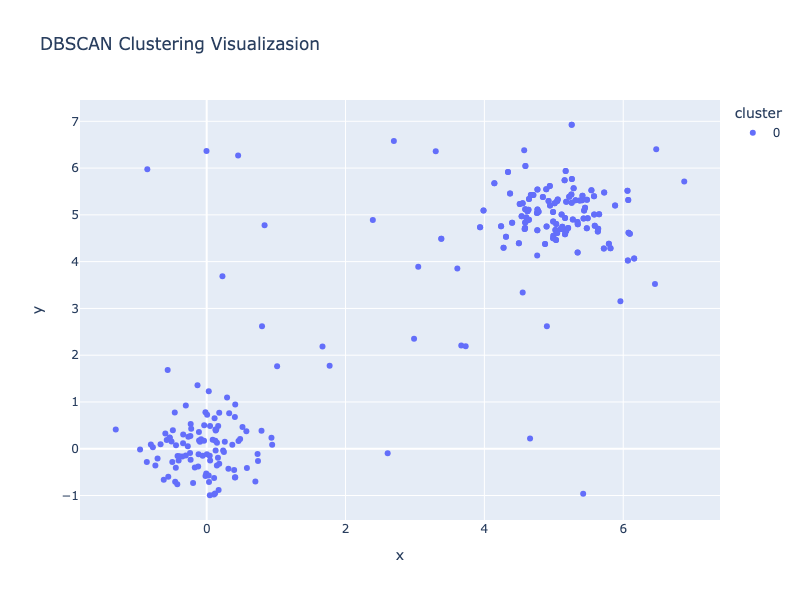
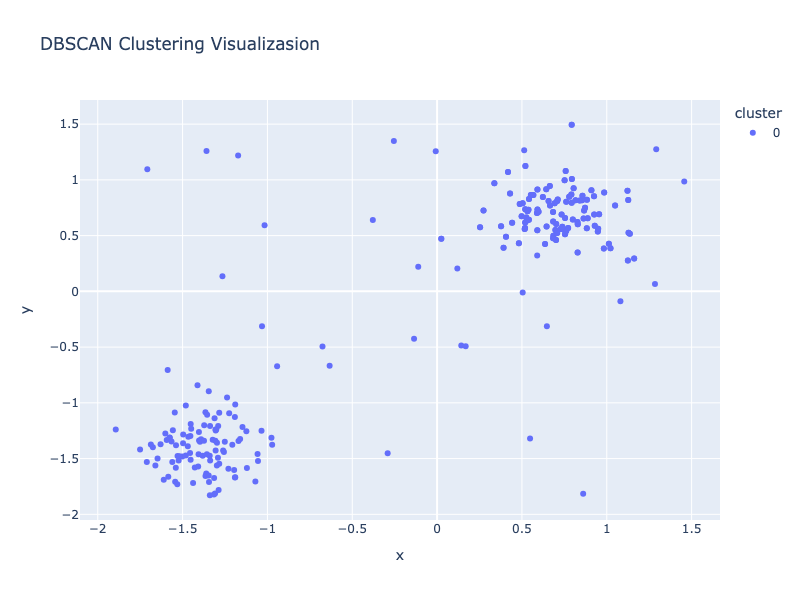
add standard scaling

diff --git a/dcscan_clustering.py b/dcscan_clustering.py
@@ -1,6 +1,7 @@
 import numpy as np
 import pandas as pd
 from sklearn.cluster import DBSCAN
+from sklearn.preprocessing import StandardScaler
 import plotly.express as px
 
 #=========================================
@@ -18,7 +19,7 @@ noise = np.random.uniform(low=-1, high=7, size=(30, 2))
 
 # Concat
 X = np.vstack([cluster1, cluster2, cluster2, noise])
-print(X)
+X = StandardScaler().fit_transform(X)
 
 # DataFrame
 df = pd.DataFrame(X, columns=["x", "y"])
@@ -28,7 +29,7 @@ df = pd.DataFrame(X, columns=["x", "y"])
 # 2. DBSCAN Clustering
 #=========================================
 dbscan = DBSCAN(
-    eps=0.6,  # 距離閾値
+    eps=0.3,  # 距離閾値
     min_samples=2,  # クラスタ形成最小サンプル数
 )
 
